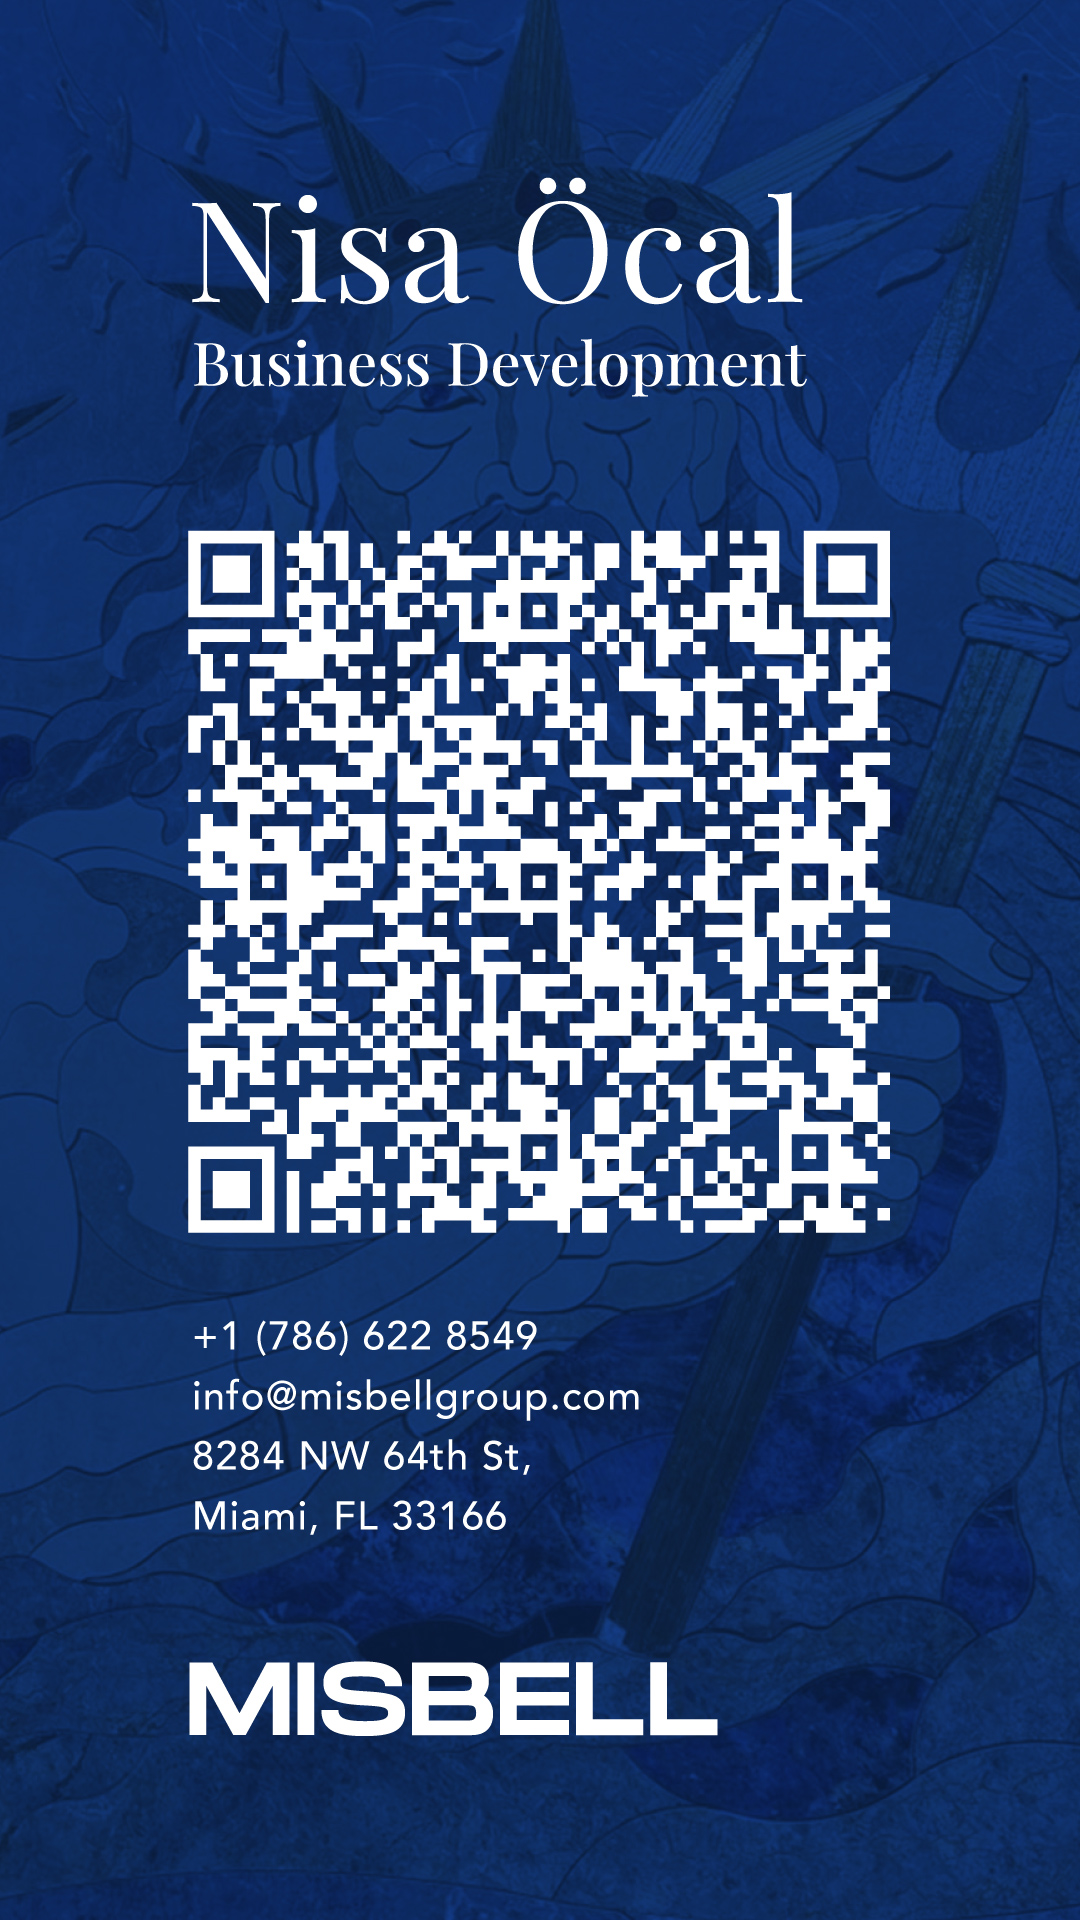
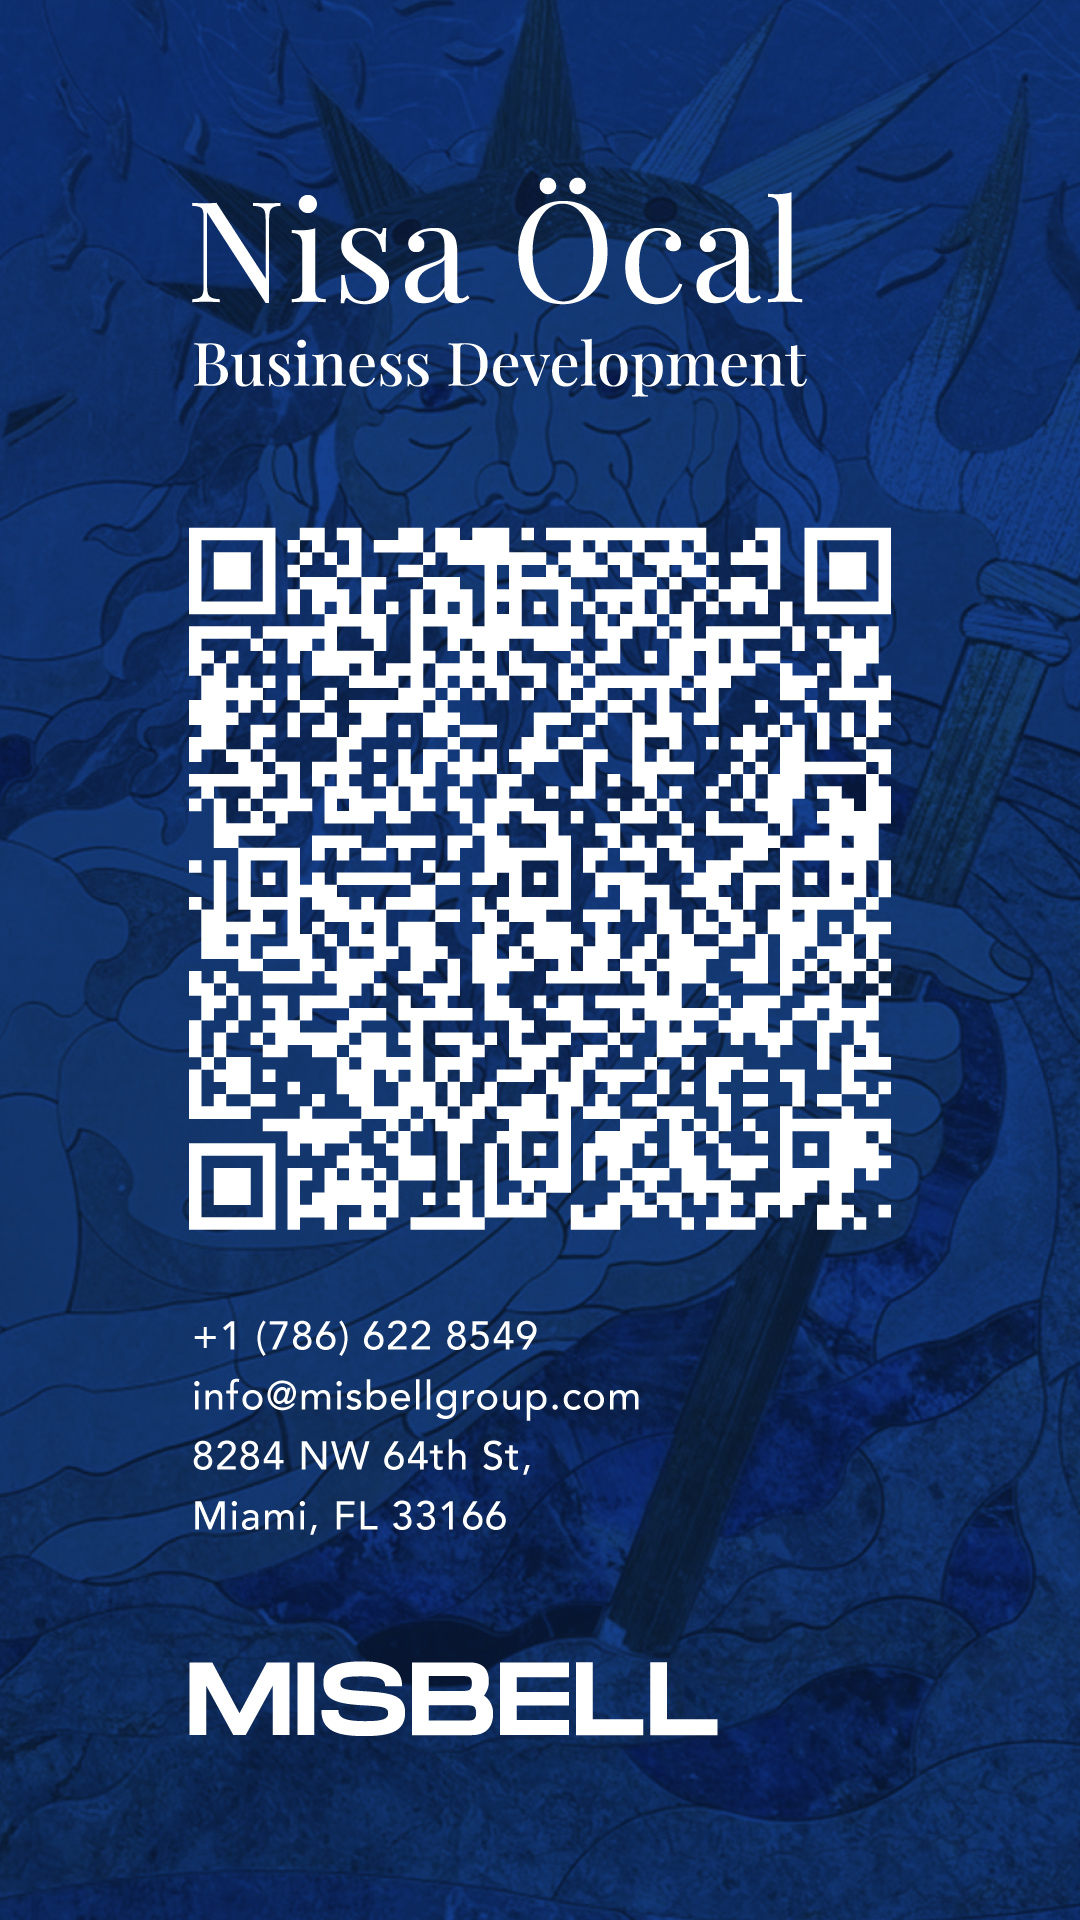
Update nisa.jpg and match background color in nisa.html

Changed region(s): [[0.1528, 0.25, 0.825, 0.6562]]

diff --git a/src/misbell/nisa.html b/src/misbell/nisa.html
@@ -6,7 +6,7 @@
             <link rel="manifest" href="/site.webmanifest">
         
         <style>
-                body {margin:0;padding:0;background:#0e2d6b;}
+                body {margin:0;padding:0;background:#0d2d6d;}
         </style>
     
 </head>
